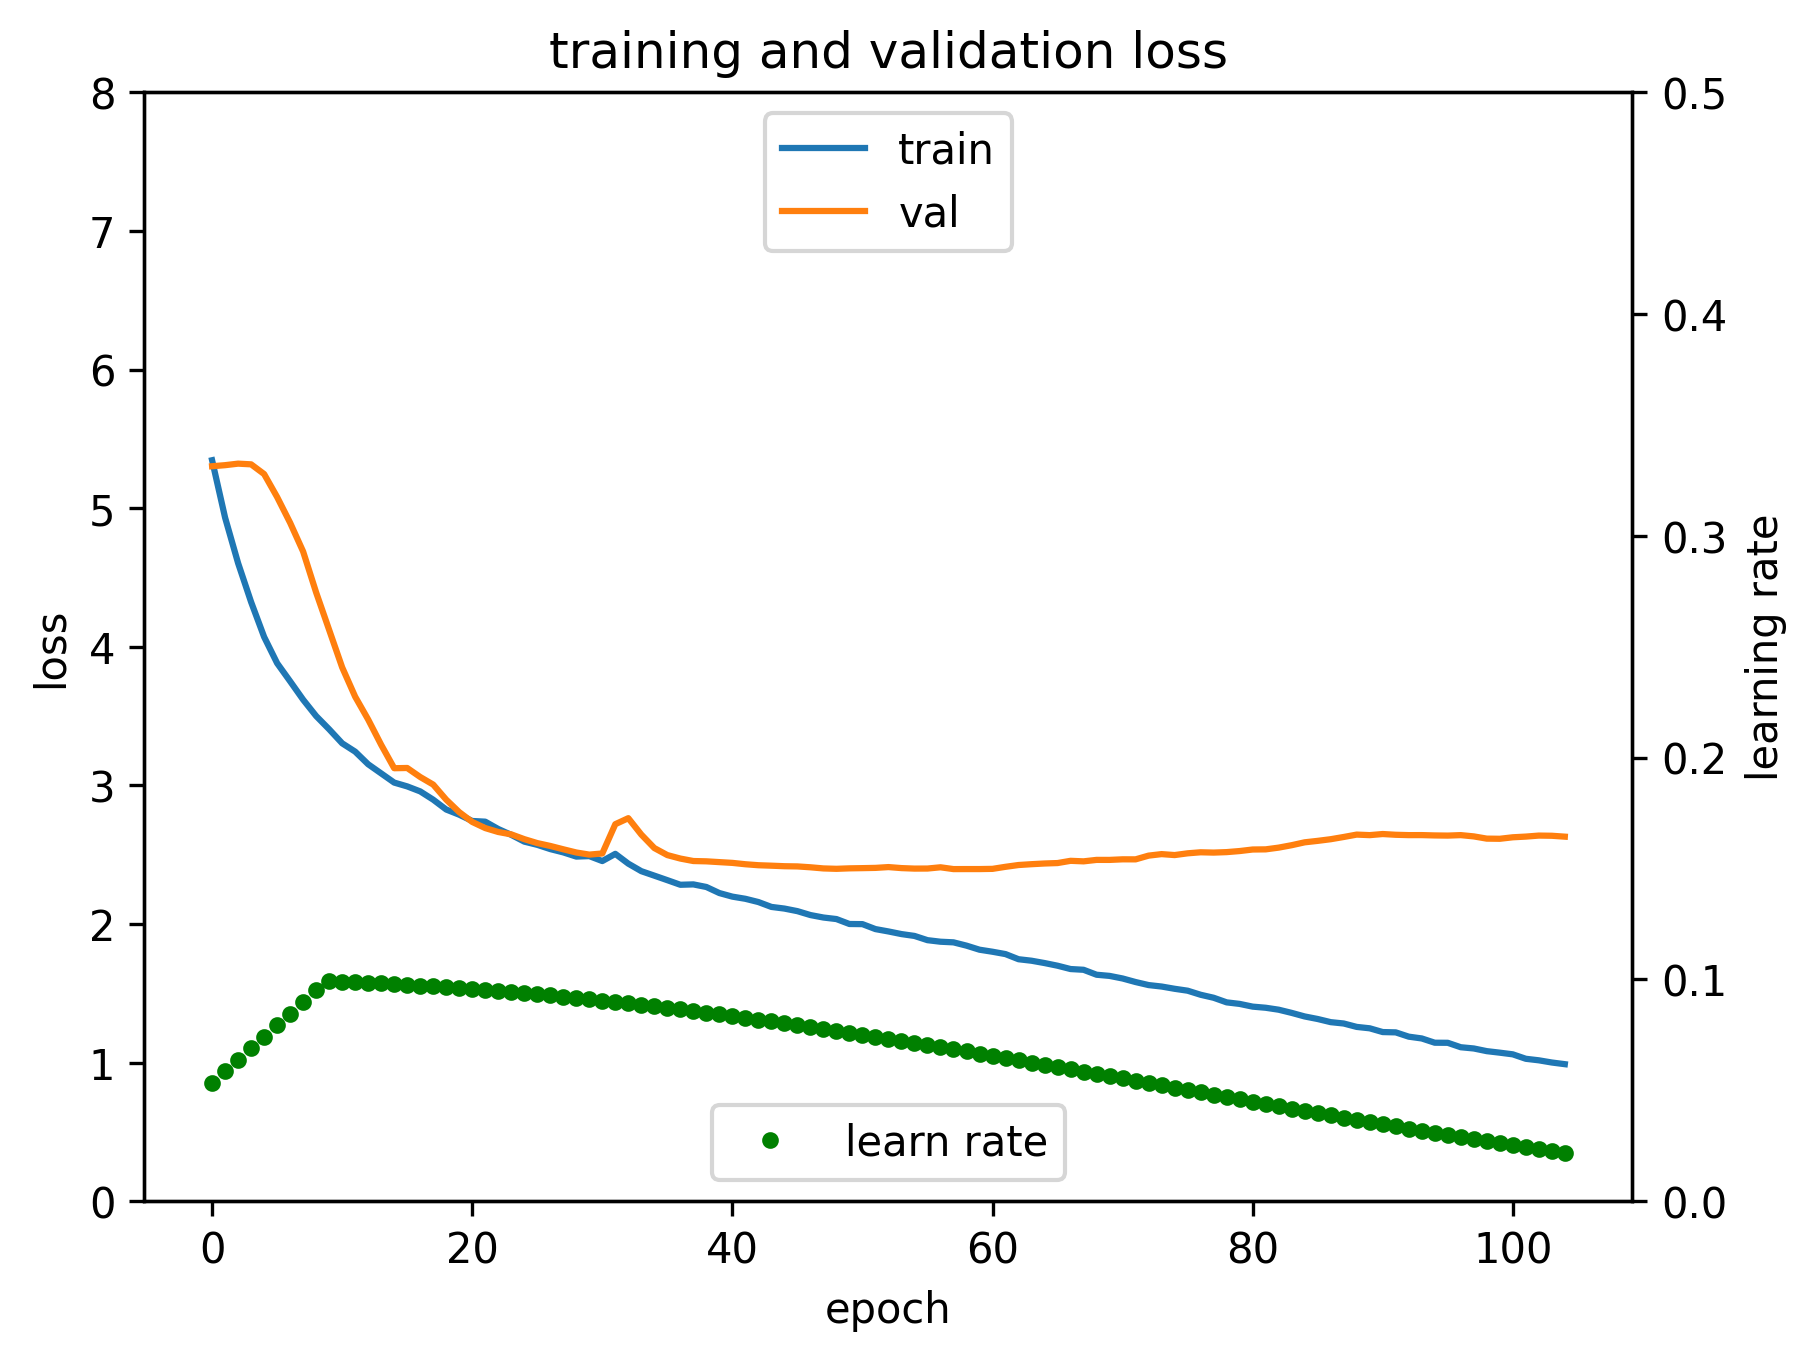
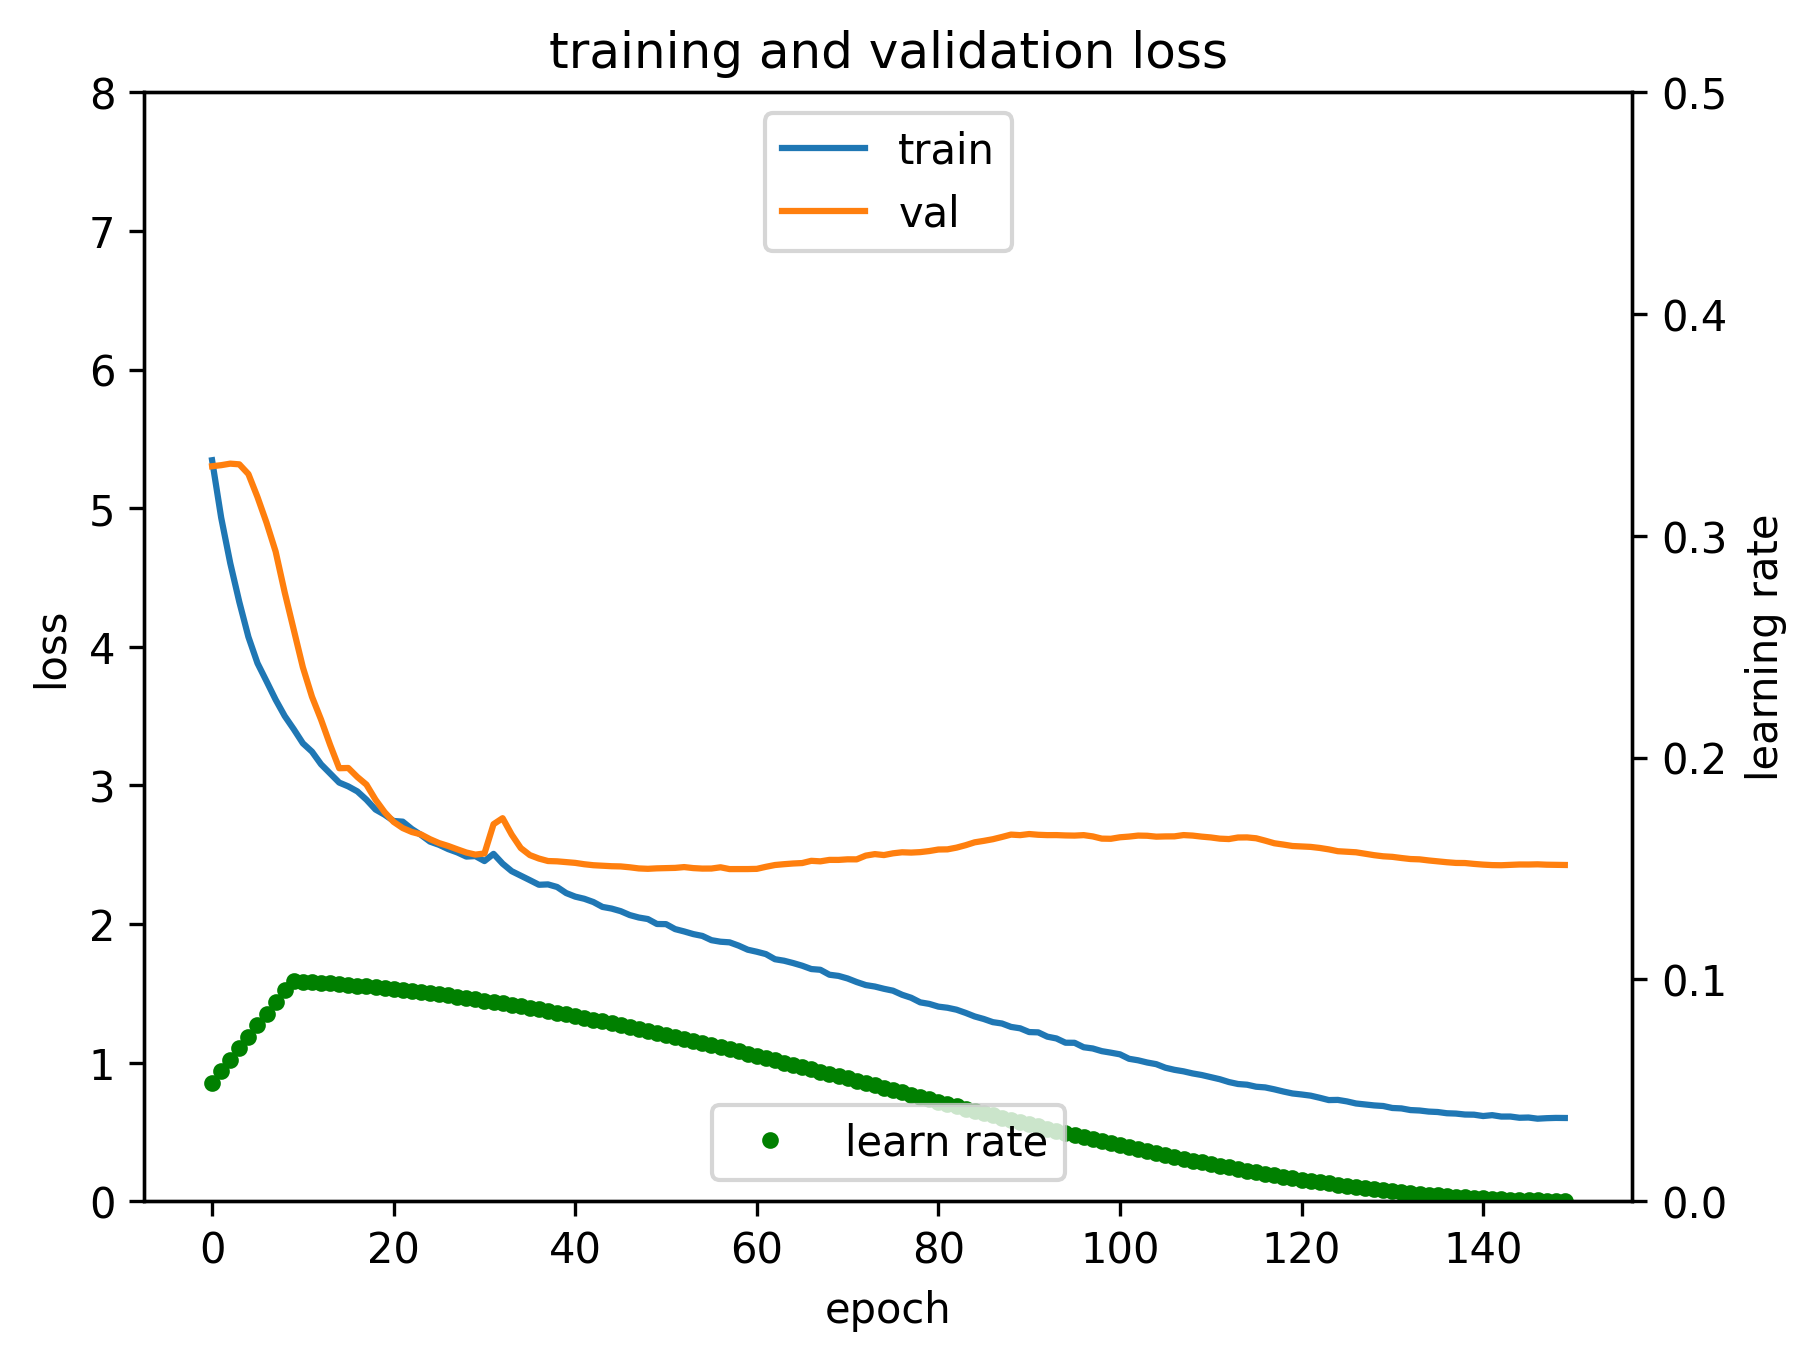
rerun for max lr 0.1

diff --git a/utils/summary_plots.py b/utils/summary_plots.py
@@ -143,7 +143,7 @@ class SummaryPlots(object):
 
 ## Test 
 def main(argv):
-    input_run_file = "results\AU_results_resnet_tiny_correct_class.txt"
+    #input_run_file = "results\AU_results_resnet_tiny_correct_class.txt"
     #input_run_file = "results\AU_results_resnet_tiny_correct_class_depth18.txt"
     #input_run_file = "results\AU_results_resnet_tiny_correct_class_depth18_cyclic.txt"
     #input_run_file = "results\AU_results_resnet_tiny_correct_class_depth18_augment.txt"
@@ -153,7 +153,7 @@ def main(argv):
     #input_run_file = "results\AU_results_resnet_tiny_correct_class_depth50_augment4_cutout_300.txt"
     #input_run_file = "results\AU_results_resnet_tiny_correct_class_depth50_augment4_cutout_wd1.txt"
     #input_run_file = "results\AU_results_resnet_tiny_correct_class_depth50_augment4_cutout_wd2.txt"
-    #input_run_file = "results\AU_results_resnet_tiny_correct_class_depth50_lr0pt1.txt"
+    input_run_file = "results\AU_results_resnet_tiny_correct_class_depth50_lr0pt1.txt"
     #input_run_file = "results\AU_results_resnet_tiny_correct_class_depth50_lr0pt1-2.txt"
     
     if len(argv) < 1: 
